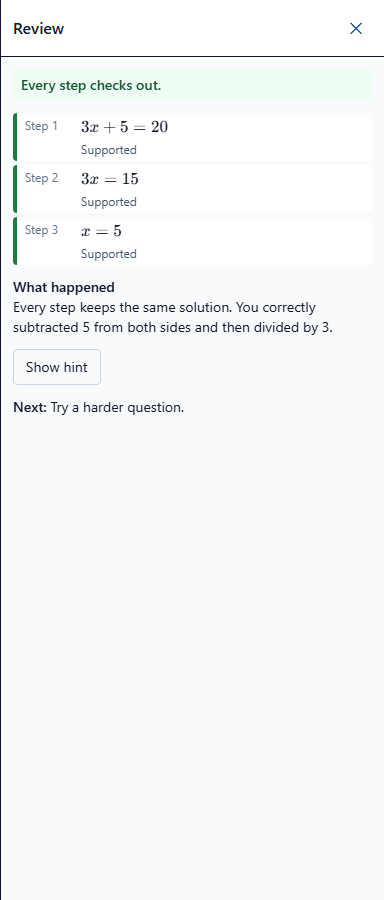
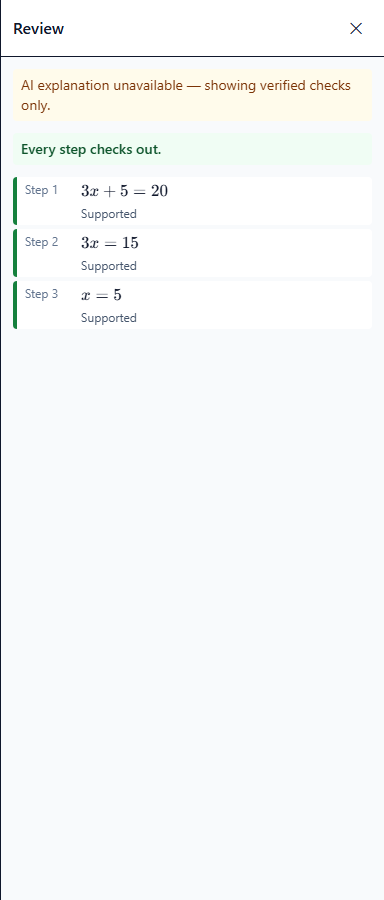
feat(T7.5): R2/R3 evidence complete; fix revoked crop URL in the confirm panel
- R2-C (3 identical SymPy results) and R3-2 (Ollama stopped -> SymPy-only, banner, work kept) captured
- R3-1 captured with mock OCR (pix2tex not installed); notes say what is still needed
- ConfirmPanel: blob URL made in useMemo was revoked by StrictMode's extra effect cleanup
  -> broken crop thumbnails; create/revoke in one effect and hide crops that fail to load
- evidence index, evaluation-plan status, M1 task-board row, AI-disclosure row

Claude-Session: https://claude.ai/code/session_01YCHRjqkrSGv6kKTeCAoTkv

diff --git a/frontend/src/features/ai-review/ConfirmPanel.tsx b/frontend/src/features/ai-review/ConfirmPanel.tsx
@@ -1,4 +1,4 @@
-import { useEffect, useMemo, useRef } from 'react'
+import { useEffect, useRef, useState } from 'react'
 import type { MathfieldElement } from 'mathlive'
 import { KatexMath } from '../../components/KatexMath'
 import { MathField } from '../../notebook/equations/MathField'
@@ -15,7 +15,9 @@ type Region = Schemas['RecognizedRegion']
 /** The part of the uploaded crop that one recognized line came from. */
 function Thumbnail({ url, crop, line }: { url: string; crop: BBox; line: BBox }) {
   const r = relativeTo(line, crop)
-  if (r.w <= 0 || r.h <= 0) return null
+  const [failed, setFailed] = useState(false)
+  // A crop that cannot load (revoked blob URL, offline) shows nothing rather than a broken-image icon.
+  if (failed || r.w <= 0 || r.h <= 0) return null
   // Page units: y is PAGE_ASPECT times longer than x, so keep the line's real proportions.
   const aspect = (line.w / line.h) * (1 / 1.414)
   return (
@@ -26,6 +28,7 @@ function Thumbnail({ url, crop, line }: { url: string; crop: BBox; line: BBox })
       <img
         src={url}
         alt=""
+        onError={() => setFailed(true)}
         className="absolute max-w-none"
         style={{
           width: `${100 / r.w}%`,
@@ -98,11 +101,15 @@ export function ConfirmPanel({ onRecrop }: { onRecrop?(): void }) {
   const fields = useRef(new Map<string, MathfieldElement>())
   useFocusTrap(panel, () => setConfirmOpen(false))
 
-  const url = useMemo(
-    () => (active?.upload ? URL.createObjectURL(active.upload.blob) : null),
-    [active?.upload],
-  )
-  useEffect(() => () => void (url && URL.revokeObjectURL(url)), [url])
+  // Create and revoke in the same effect: with useMemo, StrictMode's extra cleanup revoked a URL still in use.
+  const blob = active?.upload?.blob
+  const [url, setUrl] = useState<string | null>(null)
+  useEffect(() => {
+    if (!blob) return setUrl(null)
+    const u = URL.createObjectURL(blob)
+    setUrl(u)
+    return () => URL.revokeObjectURL(u)
+  }, [blob])
 
   if (!active) return null
   const regions: Region[] = active.regions ?? []

diff --git a/frontend/e2e/ocr-uncertain.spec.ts b/frontend/e2e/ocr-uncertain.spec.ts
@@ -1,5 +1,13 @@
+import { dirname, resolve } from 'node:path'
+import { fileURLToPath } from 'node:url'
 import { expect, test } from '@playwright/test'
 import { createNotebook, drawStroke, lassoAndReview } from './helpers'
+
+// EVIDENCE=1 also saves screenshots to docs/evidence/R3-1/ (mock OCR; see notes.md there).
+const shot = (name: string) =>
+  process.env.EVIDENCE === '1'
+    ? resolve(dirname(fileURLToPath(import.meta.url)), '../../docs/evidence/R3-1', name)
+    : undefined
 
 test('uncertain OCR asks the learner to check, never says wrong, and keeps edits', async ({
   page,
@@ -15,6 +23,7 @@ test('uncertain OCR asks the learner to check, never says wrong, and keeps edits
   await expect(panel).not.toContainText(/\bwrong\b/i)
   // No verdict is shown before confirmation.
   await expect(page.getByTestId('review-annotations')).toHaveCount(0)
+  if (shot('x')) await page.screenshot({ path: shot('screenshot-check-recognition.png') })
 
   await panel.getByRole('button', { name: 'Looks right' }).first().click()
   await expect(panel.getByText('✓ looks right')).toHaveCount(1)
@@ -23,4 +32,5 @@ test('uncertain OCR asks the learner to check, never says wrong, and keeps edits
 
   await page.getByRole('button', { name: 'Check recognition' }).click()
   await expect(panel.getByText('✓ looks right')).toHaveCount(1)
+  if (shot('x')) await page.screenshot({ path: shot('screenshot-after-reopen.png') })
 })

diff --git a/frontend/e2e/r2r3.evidence.spec.ts b/frontend/e2e/r2r3.evidence.spec.ts
@@ -208,7 +208,14 @@ test('R3-2 model unavailable', async ({ page }) => {
   mkdirSync(join(OUT, 'R3-2'), { recursive: true })
   await panel.screenshot({ path: join(OUT, 'R3-2', 'screenshot-review.png') })
   await page.reload()
-  const kept = await page.locator('math-field[aria-label="Step 4"]').count()
+  // count() would not wait for the notebook to reload from IndexedDB
+  const kept = await page
+    .locator('math-field[aria-label="Step 4"]')
+    .waitFor({ timeout: 15_000 })
+    .then(
+      () => 1,
+      () => 0,
+    )
   const pass =
     o.status === 'completed_without_ai' && o.first_error_step === 2 && banner && kept === 1
   const dir = writeNotes(

diff --git a/docs/10-evaluation-plan.md b/docs/10-evaluation-plan.md
@@ -31,17 +31,17 @@ The hackathon rubric rewards **practical value, a justified AI design, observed 
 
 | Case | Input | Expected | Evidence | Status |
 |---|---|---|---|---|
-| R2-A | Correct linear equation, e.g. `3x + 5 = 20 → 3x = 15 → x = 5` | All steps supported; accepted result | `docs/evidence/R2-A/` | ☐ |
-| R2-B | Different problem with an algebraic error, e.g. `2(x-3)=10 → 2x-3=10 → …` | First incorrect = step 2; red annotation on that region; hint | `docs/evidence/R2-B/` | ☐ |
-| R2-C | Repeat R2-A ×3 | Same correct result each time | `docs/evidence/R2-C/` | ☐ |
-| R2-D | Multi-step quadratic with an inserted mistake, e.g. `x^2-5x+6=0 → (x-2)(x+3)=0 → …` | First supported error located; relevant intervention | `docs/evidence/R2-D/` | ☐ |
+| R2-A | Correct linear equation, e.g. `3x + 5 = 20 → 3x = 15 → x = 5` | All steps supported; accepted result | `docs/evidence/R2-A/` | ✅ pass |
+| R2-B | Different problem with an algebraic error, e.g. `2(x-3)=10 → 2x-3=10 → …` | First incorrect = step 2; red annotation on that region; hint | `docs/evidence/R2-B/` | ✅ pass |
+| R2-C | Repeat R2-A ×3 | Same correct result each time | `docs/evidence/R2-C/` | ✅ pass |
+| R2-D | Multi-step quadratic with an inserted mistake, e.g. `x^2-5x+6=0 → (x-2)(x+3)=0 → …` | First supported error located; relevant intervention | `docs/evidence/R2-D/` | ✅ pass (AI text wrong, see notes) |
 
 ## 4. R3 — Failure demonstrations
 
 | Case | How to trigger | Expected | Evidence | Status |
 |---|---|---|---|---|
-| R3-1 OCR uncertainty | Upload a messy handwriting sample | "Check recognition" panel; original kept; correct/retry path works; **no incorrect verdict before confirmation** | `docs/evidence/R3-1/` | ☐ |
-| R3-2 Model unavailable | Stop Ollama (`ollama stop` / kill the service) and submit | Work preserved; "AI explanation unavailable"; SymPy checks still shown | `docs/evidence/R3-2/` | ☐ |
+| R3-1 OCR uncertainty | Upload a messy handwriting sample | "Check recognition" panel; original kept; correct/retry path works; **no incorrect verdict before confirmation** | `docs/evidence/R3-1/` | 🟡 mock OCR only |
+| R3-2 Model unavailable | Stop Ollama (`ollama stop` / kill the service) and submit | Work preserved; "AI explanation unavailable"; SymPy checks still shown | `docs/evidence/R3-2/` | ✅ pass |
 
 ## 5. Evidence folder format
 

diff --git a/docs/evidence/R3-1/notes.md b/docs/evidence/R3-1/notes.md
@@ -1,0 +1,31 @@
+# R3-1 OCR uncertainty
+
+- **Captured:** 2026-11-28T11:19:43+00:00 · commit `ea62773` + ConfirmPanel crop fix · automated (Playwright, laptop 1440×900) · `EVIDENCE=1 npx playwright test ocr-uncertain --project=laptop`
+- **Input:** a stroke on the page, lasso → "Review this"
+- **Expected:** "Check recognition" panel; original kept; correct/retry path works; **no incorrect verdict before confirmation**
+- **Result:** **PARTIAL PASS — mock OCR only**
+
+## What this shows
+
+- The panel opens with "We're not sure we read this correctly. Please check." and lists 4 recognized lines next to crops of the learner's own ink.
+- Line 2 (confidence 0.41, below `UNCERTAIN_BELOW = 0.75`) has the amber **uncertain** badge.
+- **No verdict is shown** before confirmation (`review-annotations` count = 0); the word "wrong" never appears.
+- "Looks right" marks a line; Escape closes the panel and the confirmation survives reopening (`screenshot-after-reopen.png`).
+- Re-crop / Type instead / Continue checking are present. The original strokes are untouched (OCR text is stored separately by `region_id`).
+- The server side of this rule (`awaiting_confirmation` → no verification until `POST /confirm`) is covered by
+  `backend/tests/recognition/test_pipeline.py` and `tests/test_submissions_image.py`.
+
+## What it does not show yet
+
+The recognized text comes from the MSW mock (`ReviewResponse.awaiting_confirmation` example), **not from pix2tex**:
+pix2tex is not installed on the dev laptop (`requirements-ml.txt` / `WITH_ML=1` image, several GB; not enough free RAM
+during this session). To complete: build the backend with `WITH_ML=1`, upload a messy handwriting photo through
+**Image → Review this**, and replace these screenshots.
+
+## Bug found while capturing
+
+The crop thumbnails were broken images: the blob URL was created in `useMemo` and revoked in an effect cleanup, which
+React StrictMode runs once extra, so the URL in use had been revoked. Fixed in `ConfirmPanel.tsx` (create and revoke in
+the same effect, and hide a thumbnail that fails to load).
+
+Screen recording (clip.mp4): _not recorded yet — record by hand for the video (T8.4)._

diff --git a/docs/evidence/README.md b/docs/evidence/README.md
@@ -1,0 +1,29 @@
+# R2 / R3 evidence (T7.5)
+
+Captured 2026-11-28 on the dev laptop (Intel Core Ultra 5 125U, 15.4 GB RAM, Windows 11) against `docker compose`
+(`--profile ai`, qwen2.5:3b on CPU), keyboard only, Chromium 1440×900. Each folder has `notes.md` (input, expected,
+observed from the API, pass/fail, timestamp, commit) and screenshots. Screen recordings are still to be made by hand
+for the demo video (T8.4).
+
+| Case | Result | Notes |
+|---|---|---|
+| [R2-A](R2-A/notes.md) correct linear | **PASS** | all steps supported; AI text correct |
+| [R2-B](R2-B/notes.md) error at step 2 | **PASS** | first error = step 2 + hint. First attempt hit the 120 s LLM timeout (cold model) and degraded to SymPy-only, as designed |
+| [R2-C](R2-C/notes.md) R2-A ×3 | **PASS** | identical SymPy verdicts all 3 runs; run 1 had no AI text (cold model timeout) |
+| [R2-D](R2-D/notes.md) quadratic mistake | **PASS** (verdict) | first error = step 2 by SymPy. **The AI explanation is wrong** (calls the learner's factorisation correct) — logged for prompt tuning |
+| [R3-1](R3-1/notes.md) OCR uncertainty | **PARTIAL** | flow shown with mock OCR; real pix2tex run still needed |
+| [R3-2](R3-2/notes.md) model unavailable | **PASS** | Ollama stopped → `completed_without_ai`, banner, SymPy checks, work kept after reload |
+
+## Re-run
+
+```bash
+docker compose --profile ai up -d            # warm the model first (see docker-compose.yml)
+cd frontend
+E2E_BASE_URL=http://localhost:8080 EVIDENCE_COMMIT=$(git rev-parse --short HEAD) npx playwright test r2r3 -g "R2"
+docker compose stop ollama
+E2E_BASE_URL=http://localhost:8080 npx playwright test r2r3 -g "R3-2"
+EVIDENCE=1 npx playwright test ocr-uncertain --project=laptop   # R3-1, mock OCR
+```
+
+Lessons for the demo: warm the model right before presenting (a cold load took ~117 s, longer than `TIMEOUT_LLM`),
+and keep the R2-D AI text in view as the example of why SymPy, not the LLM, decides correctness.

diff --git a/docs/09-ai-disclosure-log.md b/docs/09-ai-disclosure-log.md
@@ -22,6 +22,7 @@ This log is required by the hackathon rubric (A4). **Everyone adds rows as they 
 | 2026-11-28 | M2 | T4.3, T5.4 | AI coding assistant | Check-recognition panel, review stepper, feedback panel, SVG annotations, review store | Component tests (MSW), Playwright on laptop/tablet/phone, axe | Playwright found the phone header overflowing (layout viewport 504 px → hidden title, panel buttons off-screen) and a missing `min-h-0` on panel scroll areas; axe found 4 label/name mismatches. All fixed |
 | 2026-11-28 | M3 | T7.2 | AI coding assistant | `ai/evaluation/` harness, metric functions, unit tests, first reports | 9 unit tests on tiny fixtures; ran on all 120 labelled items | Tests caught the threshold-tuning rounding back onto the misread confidence (would let that line skip confirmation); changed to the next observed confidence |
 | 2026-11-28 | M4 / M1 | T6.6, T7.7, T7.3 | AI coding assistant | Progress page, practise-this-problem flow, export/delete-my-data UI, 25 Playwright specs | Component tests; real-backend E2E (practise → solve → attempts +1) | Building the mastery E2E showed there was no way in the UI to attach a problem to a solution block, so mastery could never change; added the practise flow |
+| 2026-11-28 | M1 | T7.5 | AI coding assistant | Playwright evidence capture (`r2r3.evidence.spec.ts`), evidence notes | Ran against docker compose; screenshots inspected by eye; AI explanations read against the maths | Human check of R2-D found a wrong LLM explanation (verdict correct) — recorded, not hidden. Capturing R3-1 exposed a revoked blob URL in the confirm panel; fixed. Two test bugs (bare `/` reopens the last notebook; `count()` not waiting after reload) fixed |
 | | | | | | | |
 
 ### Categories to cover (from spec §14.5)

diff --git a/docs/evidence/R2-C/notes.md b/docs/evidence/R2-C/notes.md
@@ -1,0 +1,25 @@
+# R2-C
+
+- **Captured:** 2026-11-28T11:15:15.282Z · commit `ea62773` · automated (Playwright, laptop 1440×900, keyboard only) against `docker compose`
+- **Input steps:** `3x+5=20` → `3x=15` → `x=5`
+- **Expected:** Same correct result each time
+- **Result:** **PASS**
+
+| Run | Status | AI | Step verdicts (SymPy) | First error | LLM error type | Next action |
+|---|---|---|---|---|---|---|
+| 1 | `completed_without_ai` | `unavailable` | supported, supported, supported | — | — | — |
+| 2 | `completed` | `ok` | supported, supported, supported | — | — | increase_difficulty |
+| 3 | `completed` | `ok` | supported, supported, supported | — | — | increase_difficulty |
+
+AI text (explains only; SymPy decides):
+
+- Run 1 explanation: Every step keeps the same solution. You correctly subtracted 5 from both sides and then divided by 3.
+  Hint: Try a problem with brackets or with x on both sides next.
+- Run 2 explanation: Every step keeps the same solution. You correctly subtracted 5 from both sides and then divided by 3.
+  Hint: Try a problem with brackets or with x on both sides next.
+
+**Reviewer note:** the deterministic result (SymPy verdicts, first error) is identical in all three runs, which is what
+R2-C checks. Run 1's LLM call hit `TIMEOUT_LLM=120 s` while the model reloaded after `keep_alive` expiry, so that run
+shows the "AI explanation unavailable" state; runs 2–3 include the AI text. Warm the model before a demo.
+
+Screen recording (clip.mp4): _not recorded yet — record by hand for the video (T8.4)._

diff --git a/docs/evidence/R3-2/notes.md b/docs/evidence/R3-2/notes.md
@@ -1,0 +1,14 @@
+# R3-2
+
+- **Captured:** 2026-11-28T11:16:42.555Z · commit `ea62773` · automated (Playwright, laptop 1440×900, keyboard only) against `docker compose`
+- **Input steps:** `2(x-3)=10` → `2x-3=10` → `2x=13` → `x=6.5`
+- **Expected:** Work preserved; "AI explanation unavailable"; SymPy checks still shown
+- **Result:** **PASS**
+
+| Run | Status | AI | Step verdicts (SymPy) | First error | LLM error type | Next action |
+|---|---|---|---|---|---|---|
+| 1 | `completed_without_ai` | `unavailable` | supported, incorrect, supported, supported | 2 | — | — |
+
+Health before submitting: `ollama: down`. Banner visible: true. Steps still in the notebook after a reload: yes.
+
+Screen recording (clip.mp4): _not recorded yet — record by hand for the video (T8.4)._

diff --git a/docs/task-board.md b/docs/task-board.md
@@ -95,6 +95,6 @@
 | T7.1 | Labelled dataset (120) | T0.6 | M3 | todo | |
 | T6.6 | Progress page | mock-ok; T6.5 for real | M2 | todo | |
 | T7.4 | Cross-device manual matrix | T5.4 | M2 | todo | |
-| T7.5 | R2/R3 evidence (with M1) | T7.2, T7.3 | M1 | todo | |
+| T7.5 | R2/R3 evidence (with M1) | T7.2, T7.3 | M1 | review (R2-A–D, R3-2 pass; R3-1 mock OCR only; clips by hand in T8.4) | `feat/M1-integration` |
 | T8.3 | AI disclosure log | continuous | M1 | todo | |
 | T8.2 | README & docs final | T7.5 | M1 | todo | |
